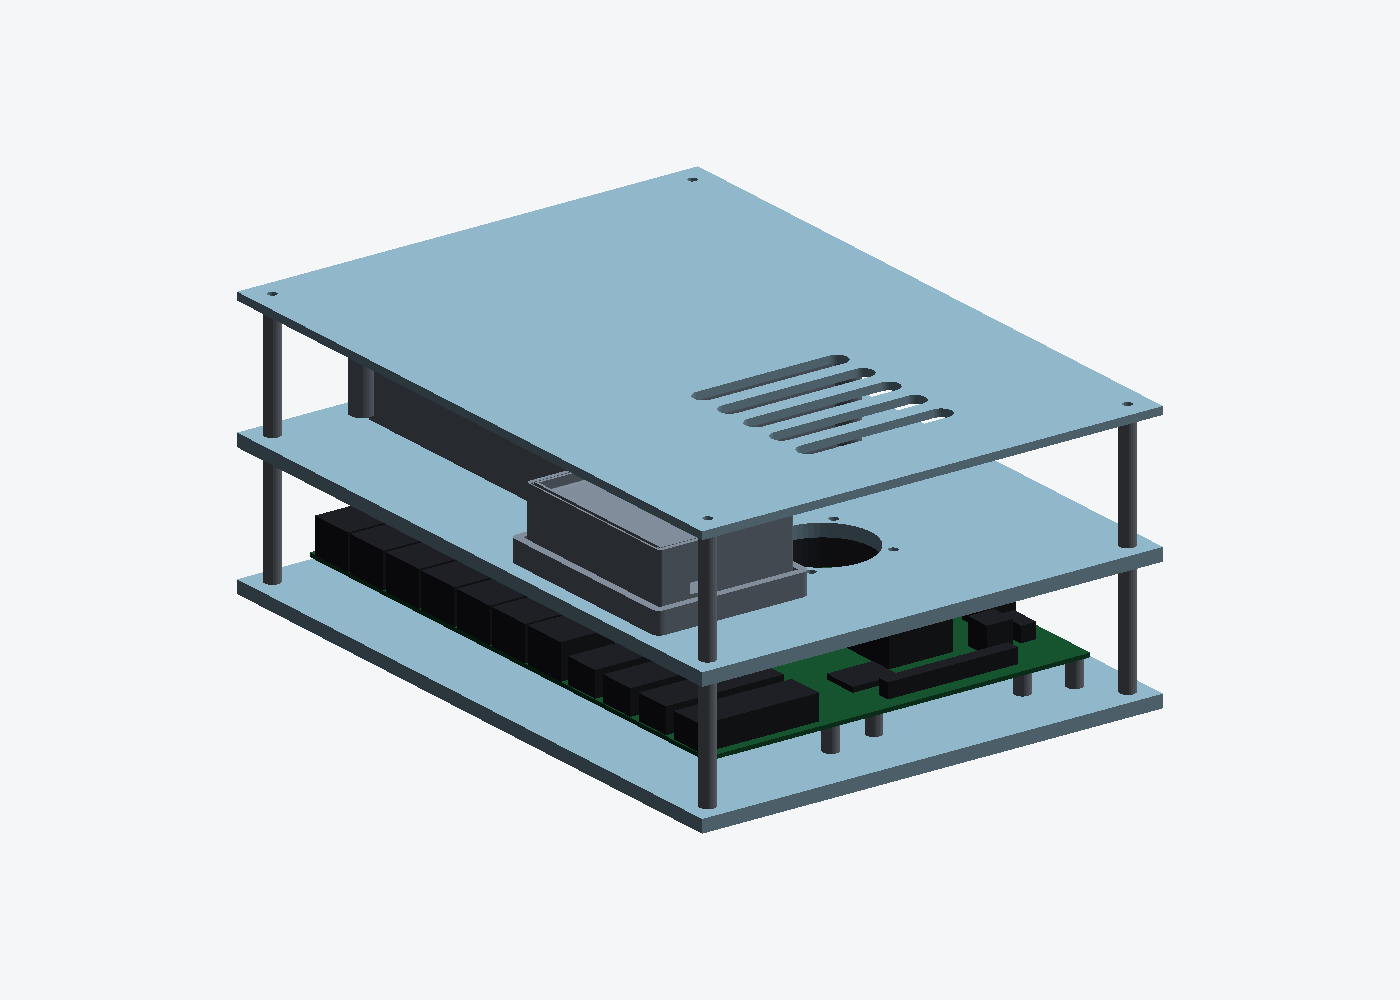
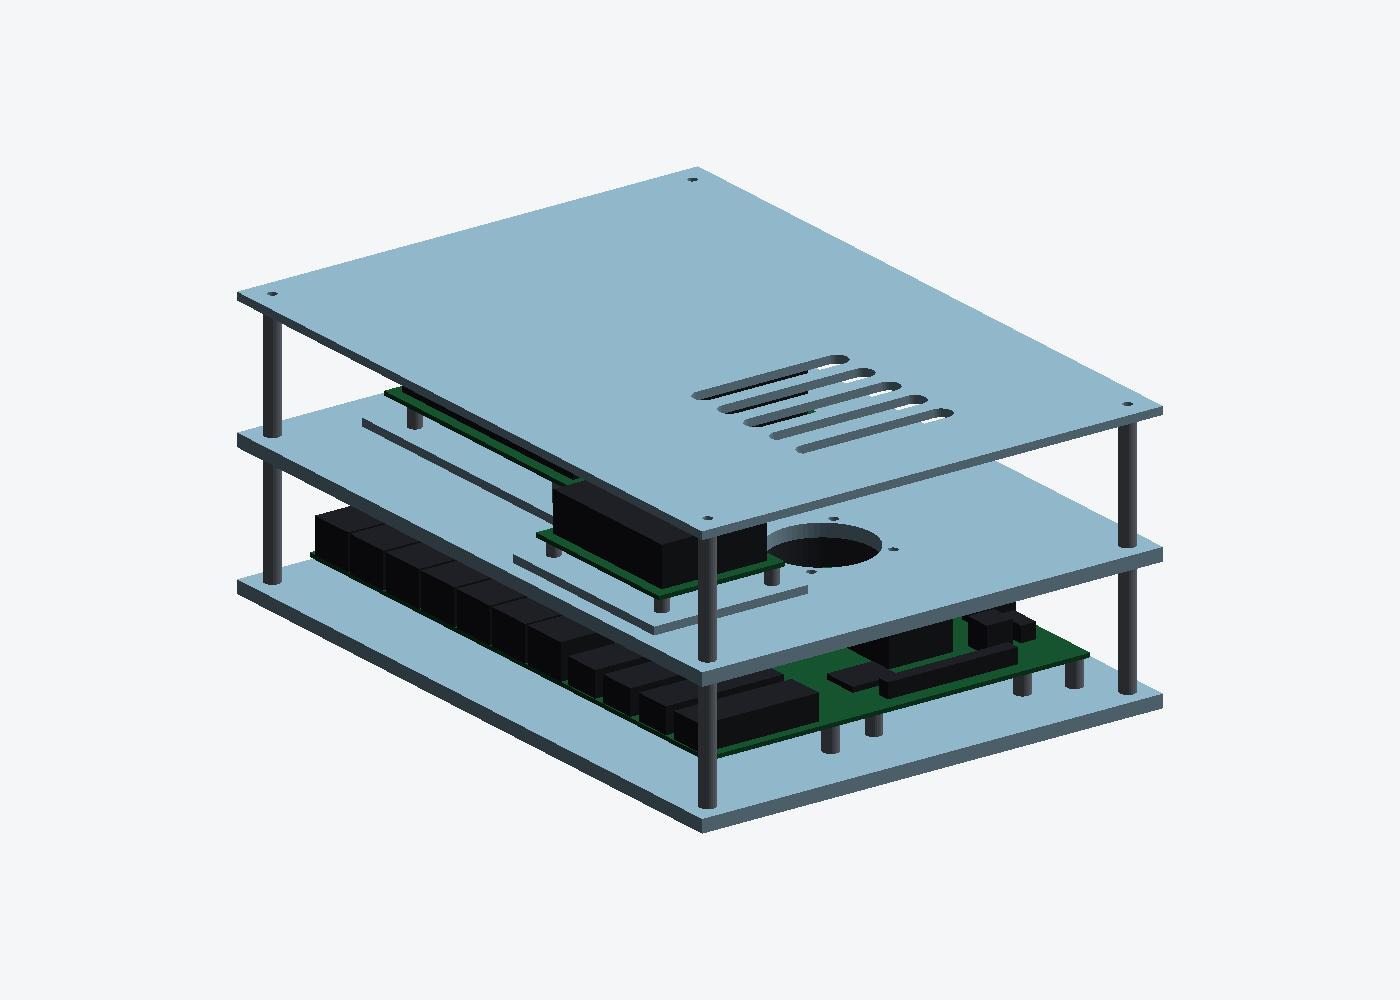
All-acrylic build: five plates, nothing printed
Adds plate E for the TC397 and switches assembly.py to ACRYLIC_ONLY, so the
3D preview now shows bare boards on sub-plates instead of printed cases.

Plate E works around the TC397 having only two mounting holes, both on one
edge: two M3 standoffs go in the real holes and two self-adhesive nylon
standoffs prop the port edge, which needs no holes at all and so cannot be
misaligned. Plate D uses the T-ETH-Elite's confirmed asymmetric pattern.

Checks: both sub-plates clear their deck holes (6.27 mm on D, 28.71 on E),
plate E fits its zone on plate B, and the tallest module now sits 12.4 mm below
plate C. BOM drops the printed group and gains the M2.5 and adhesive-standoff
lines; the printed cases stay in the repo for anyone who wants them.

Changed region(s): [[0.2457, 0.341, 0.5836, 0.651], [0.5221, 0.372, 0.6143, 0.434]]

diff --git a/acrylic-frame/bom.py b/acrylic-frame/bom.py
@@ -23,7 +23,9 @@ BOM = [
     ('acrylic', 'Plate C - top', 'clear acrylic 3 mm, 250 x 180, plate-c-top-3T.dxf', 1,
      'guard + intake slots'),
     ('acrylic', 'Plate D - T-ETH-Elite', 'clear acrylic 3 mm, 76 x 60, plate-d-eth-elite-3T.dxf', 1,
-     'optional - replaces the printed case + adapter'),
+     'bare board, no printed case'),
+    ('acrylic', 'Plate E - TC397', 'clear acrylic 3 mm, 110 x 110, plate-e-tc397-3T.dxf', 1,
+     'bare board, no printed case'),
 
     ('hardware', 'Hex standoff F/F', 'M3 x 10 mm', 8, 'PCB standoffs on plate A'),
     ('hardware', 'Hex standoff M/F', 'M3 x 45 mm', 8, '4 for A->B, 4 for B->C'),
@@ -31,12 +33,15 @@ BOM = [
     ('hardware', 'Screw, pan head', 'M3 x 8 mm', 12,
      '8 up through plate A into the PCB standoffs, 4 down through plate C'),
     ('hardware', 'Screw, pan head', 'M3 x 12 mm', 8,
-     '4 TC397 tray, 4 T-ETH-Elite adapter, through the plate B slots'),
+     '4 plate E, 4 plate D, through the plate B slots'),
     ('hardware', 'Screw, pan head', 'M3 x 16 mm', 4, 'fan, through plate B'),
     ('hardware', 'Nut', 'M3', 20, '4 under plate A corners, 4 fan, 8 module trays, spares'),
     ('hardware', 'Washer', 'M3 nylon', 20, 'under every head that lands on acrylic'),
-    ('hardware', 'Hex standoff F/F', 'M2.5 x 6 mm', 4, 'plate D only, T-ETH-Elite'),
-    ('hardware', 'Screw, pan head', 'M2.5 x 6 mm', 8, 'plate D only'),
+    ('hardware', 'Hex standoff F/F', 'M2.5 x 6 mm', 4, 'T-ETH-Elite on plate D'),
+    ('hardware', 'Screw, pan head', 'M2.5 x 6 mm', 8, 'T-ETH-Elite on plate D'),
+    ('hardware', 'Hex standoff F/F', 'M3 x 8 mm', 2, 'TC397 on plate E - only 2 holes exist'),
+    ('hardware', 'Nylon standoff, adhesive base', '8 mm', 2,
+     'props the TC397 port edge, which has no holes'),
     ('hardware', 'Rubber foot', 'self-adhesive, ~10 mm', 4, 'under plate A'),
 
     ('electrical', 'Fan', '40 x 40 x 10 mm, 12 V DC', 1, 'blows down onto the switch'),
@@ -46,17 +51,14 @@ BOM = [
      'board budgets 4.1 A, fan ~0.15 A'),
     ('electrical', 'Barrel plug, solder type', '5.5 x 2.5 mm', 1, 'to wire the fan onto the splitter'),
 
-    ('printed', 'TC397 Application Kit case', 'tc397_appkit_tray.stl + _lid.stl', 1, '82.9 cm3'),
-    ('printed', 'LilyGo T-ETH-Elite case', 'lilygo_*_bottom_fit.stl + _top_fit.stl', 1,
-     '17.1 cm3, order 2 sets - the buttons come loose'),
-    ('printed', 'T-ETH-Elite adapter', 'adapter_lilygo.stl', 1,
-     '14.5 cm3, bolts to plate B, case drops in'),
+    # nothing printed in the all-acrylic build. The printed cases in this repo
+    # remain valid if you would rather box the small boards up:
+    #   tc397_appkit_{tray,lid}.stl, lilygo_*_fit.stl + adapter_lilygo.stl
 ]
 
 SUPPLIER = {'acrylic': 'laser / acrylic shop',
             'hardware': 'electronics parts supplier',
-            'electrical': 'electronics parts supplier',
-            'printed': '3D print (self or JLC3DP)'}
+            'electrical': 'electronics parts supplier'}
 
 
 def write_csv(path):
@@ -70,7 +72,7 @@ def write_csv(path):
 
 def as_markdown():
     out = []
-    for g in ('acrylic', 'hardware', 'electrical', 'printed'):
+    for g in ('acrylic', 'hardware', 'electrical'):
         out.append(f"\n### {g} — {SUPPLIER[g]}\n")
         out.append('| Item | Spec | Qty | Note |')
         out.append('|---|---|---:|---|')

diff --git a/acrylic-frame/assembly.py b/acrylic-frame/assembly.py
@@ -36,6 +36,15 @@ H_BC = 45.0                            # plate B -> plate C. 40 leaves only
                                        # 2 mm over the 38 mm TC397 case
 FAN_THICK = 10.0
 
+# True  = all-acrylic: bare boards on their own sub-plates, nothing printed
+# False = the printed TC397 / T-ETH-Elite cases
+ACRYLIC_ONLY = True
+SUB_T = 3.0                            # sub-plate thickness
+ETH_STANDOFF = 6.0                     # M2.5 under the T-ETH-Elite
+TC_STANDOFF = 8.0                      # M3 under the TC397
+ETH_PARTS_H = 15.2                     # over the PCB, from LilyGo's 3D CAD
+TC_PARTS_H = 20.0                      # over the PCB - assumed, no source
+
 Z_A = 0.0
 Z_PCB = T_A + H_BOARD                  # PCB underside
 Z_B = T_A + H_AB                       # plate B underside
@@ -173,9 +182,33 @@ def place(path, cx, cy, z):
     return m
 
 
+def sub_stack(cx, cy, plate_wh, board_wh, holes, standoff, parts_h, z_top):
+    """A sub-plate, its standoffs, the bare PCB and a block for its parts."""
+    pw, ph = plate_wh
+    bw, bh = board_wh
+    ox, oy = cx - pw / 2, cy - ph / 2
+    bx0, by0 = ox + (pw - bw) / 2, oy + (ph - bh) / 2
+    out = [(bx(ox, ox + pw, oy, oy + ph, z_top, z_top + SUB_T), ACRYLIC)]
+    for hx, hy in holes:
+        out.append((cyl(5.0, z_top + SUB_T, z_top + SUB_T + standoff,
+                        bx0 + hx, by0 + hy), METAL))
+    z = z_top + SUB_T + standoff
+    out.append((bx(bx0, bx0 + bw, by0, by0 + bh, z, z + 1.6), (0.09, 0.36, 0.20)))
+    out.append((bx(bx0 + 4, bx0 + bw - 4, by0 + 4, by0 + bh - 4,
+                   z + 1.6, z + 1.6 + parts_h), (0.13, 0.14, 0.16)))
+    return out
+
+
 def modules(z_top):
     """Whatever the current plate-B layout carries, at its real height."""
     out = []
+    if ACRYLIC_ONLY:
+        (_, tx, ty), (_, lx, ly) = P.ZONES
+        out += sub_stack(tx, ty, P.TC_PLATE, P.TC_BOARD, P.TC_HOLES,
+                         TC_STANDOFF, TC_PARTS_H, z_top)
+        out += sub_stack(lx, ly, P.ETH_PLATE, P.ETH_BOARD, P.ETH_HOLES,
+                         ETH_STANDOFF, ETH_PARTS_H, z_top)
+        return out
     if P.LAYOUT == 'tc397+eth-elite':
         (_, tx, ty), (_, lx, ly) = P.ZONES
         sys.path.insert(0, TC)
@@ -231,7 +264,8 @@ def checks():
     print(f"  fan                {Z_B - FAN_THICK:6.1f} .. {Z_B:6.1f}"
           f"   clearance to board {Z_B - FAN_THICK - top:5.1f} mm")
     print(f"  plate B            {Z_B:6.1f} .. {Z_B + T_B:6.1f}")
-    print(f"\nmodules on plate B (layout '{P.LAYOUT}')")
+    print(f"\nmodules on plate B (layout '{P.LAYOUT}'"
+          f"{', all-acrylic' if ACRYLIC_ONLY else ', printed cases'})")
     boxes = []
     for m, _ in modules(Z_B + T_B):
         lo, hi = m.bounds[0], m.bounds[1]

diff --git a/acrylic-frame/make_plates.py b/acrylic-frame/make_plates.py
@@ -65,6 +65,16 @@ ETH_HOLES = [(3.33, 4.63), (61.33, 4.63), (2.98, 46.23), (63.23, 46.20)]
 ETH_HOLE_D = 2.9                  # M2.5 free fit
 ETH_PLATE = (76.0, 60.0)
 
+# Optional 5th plate: the TC397 Application Kit bolted down instead of living in
+# its printed tray. Only two mounting holes exist, both on the y = 0 edge
+# (Application Kit Manual TC3X7 V2.0, figure 7-7 - the chain carries 11, 89
+# and 4 explicitly, and all four corners were checked for more). The port edge
+# is supported by two self-adhesive nylon standoffs, which need no holes.
+TC_BOARD = (100.0, 100.0)
+TC_HOLES = [(11.0, 4.0), (89.0, 4.0)]
+TC_HOLE_D = 3.4
+TC_PLATE = (110.0, 110.0)
+
 BOARD_OFF = ((PW - BW) / 2, (PH - BH) / 2)     # board centred on the plate
 FAN_C = (BOARD_OFF[0] + U1[0], BOARD_OFF[1] + U1[1])
 
@@ -174,6 +184,21 @@ def plate_eth_elite():
     return d
 
 
+def plate_tc397():
+    """3 mm. Carries a bare TC397 Application Kit, bolts to plate B."""
+    d = Dxf()
+    w, h = TC_PLATE
+    d.rounded_rect(0, 0, w, h, 4.0)
+    ox, oy = (w - TC_BOARD[0]) / 2, (h - TC_BOARD[1]) / 2
+    for hx, hy in TC_HOLES:
+        d.circle(ox + hx, oy + hy, TC_HOLE_D / 2)
+    for sx in (-1, 1):
+        for sy in (-1, 1):
+            d.circle(w / 2 + sx * DECK_PITCH / 2, h / 2 + sy * DECK_PITCH / 2,
+                     M3_FREE / 2)
+    return d
+
+
 def plate_top():
     """3 mm. Hand and cable guard, with intake slots over the fan."""
     d = Dxf()
@@ -188,7 +213,8 @@ def plate_top():
 PLATES = [('plate-a-bottom-5T', plate_bottom, 5),
           ('plate-b-middle-5T', plate_middle, 5),
           ('plate-c-top-3T', plate_top, 3),
-          ('plate-d-eth-elite-3T', plate_eth_elite, 3)]
+          ('plate-d-eth-elite-3T', plate_eth_elite, 3),
+          ('plate-e-tc397-3T', plate_tc397, 3)]
 
 
 def main():

diff --git a/acrylic-frame/README.md b/acrylic-frame/README.md
@@ -8,7 +8,9 @@ for the material/thickness/quantity table and the hardware list.
 
 `assembly.py` builds the whole stack in 3D from the same constants the DXFs come
 from, so the plates here and the plates the cutter gets cannot drift apart. It
-is a picture, not a printable part — `assembly.stl`, 250 × 180 × 98 mm.
+is a picture, not a printable part — `assembly.stl`, 250 × 180 × 103 mm.
+`ACRYLIC_ONLY = False` at the top swaps the bare boards back for the printed
+cases.
 
 ![plate A with the board](img/plate_a_board.png)
 ![plate A holes](img/plate_a_holes.png)
@@ -28,8 +30,8 @@ vertical stack
   tallest part top     30.5   (DC-DC U3, ADM00987, assumed)
   fan                  40.0 ..   50.0   clearance to board   9.5 mm
   plate B              50.0 ..   55.0
-  ESP32-S31 case top   86.6   clearance to plate C   8.4 mm
-  plate C              95.0 ..   98.0
+  tallest module top   87.6   clearance to plate C  12.4 mm
+  plate C             100.0 ..  103.0
 ```
 
 The two clearances are the ones worth watching. Both are computed against the
@@ -39,11 +41,15 @@ nothing else in the design changes.
 
 ![plates](img/plates.png)
 
+**Nothing here is 3D printed.** Five laser-cut plates and hardware.
+
 | Plate | Material | Size | Carries |
 |---|---|---|---|
 | A — bottom | 5 mm clear acrylic | 250 × 180 mm | LAN9692 on 8 × M3 standoffs |
-| B — middle | 5 mm clear/smoke | 250 × 180 mm | 40 mm fan underneath; TC397 + T-ETH-Elite on top |
+| B — middle | 5 mm clear/smoke | 250 × 180 mm | 40 mm fan underneath; plates D + E on top |
 | C — top | 3 mm clear | 250 × 180 mm | guard, intake slots over the fan |
+| D — sub | 3 mm clear | 76 × 60 mm | bare T-ETH-Elite on 4 × M2.5 standoffs |
+| E — sub | 3 mm clear | 110 × 110 mm | bare TC397 on its 2 real holes + 2 adhesive props |
 
 Stack ≈ 5 + 45 + 5 + 45 + 3 = **103 mm** tall.
 

diff --git a/acrylic-frame/CUTTING.md b/acrylic-frame/CUTTING.md
@@ -7,7 +7,8 @@ Send `acrylic-frame-dxf.zip`. Three plates, all 250 × 180 mm with R6 corners.
 | `plate-a-bottom-5T.dxf` | clear acrylic (PMMA) | **5 mm** | 1 |
 | `plate-b-middle-5T.dxf` | clear or smoke acrylic | **5 mm** | 1 |
 | `plate-c-top-3T.dxf` | clear acrylic | **3 mm** | 1 |
-| `plate-d-eth-elite-3T.dxf` | clear acrylic, 76 × 60 mm | **3 mm** | 1 (optional) |
+| `plate-d-eth-elite-3T.dxf` | clear acrylic, 76 × 60 mm | **3 mm** | 1 |
+| `plate-e-tc397-3T.dxf` | clear acrylic, 110 × 110 mm | **3 mm** | 1 |
 
 * Units are **millimetres** (R12 DXF, `$INSUNITS = 4`).
 * Every closed shape is a cut path — outline, holes and slots alike. There is no
@@ -55,7 +56,10 @@ time so they arrive together, but they are not part of the acrylic job.
 |---|---|---|
 | 1 | laser / acrylic shop | `acrylic-frame-dxf.zip` — 3 plates |
 | 2 | electronics parts supplier | the hardware table below |
-| 3 | 3D print (self or JLC3DP) | TC397 case, T-ETH-Elite case, `adapter_lilygo.stl` |
+
+**Nothing is 3D printed in this build.** The printed cases elsewhere in the
+repo still work if you would rather box the small boards up, but plates D and E
+replace them.
 
 ## Hardware
 
@@ -71,7 +75,7 @@ time so they arrive together, but they are not part of the acrylic job.
 | 12 V DC Y splitter | 5.5 × 2.5 mm | 1 |
 | 12 V adapter | 5 A, 5.5 × 2.5 mm | 1 |
 
-## Optional: bare T-ETH-Elite on plate D
+## Plates D and E — the small boards, bare
 
 `plate-d-eth-elite-3T.dxf` replaces the printed T-ETH-Elite case and its
 adapter with one 76 × 60 mm sheet: the board bolts to it on M2.5 standoffs and
